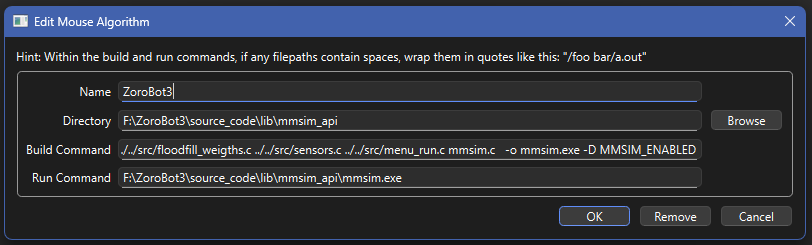
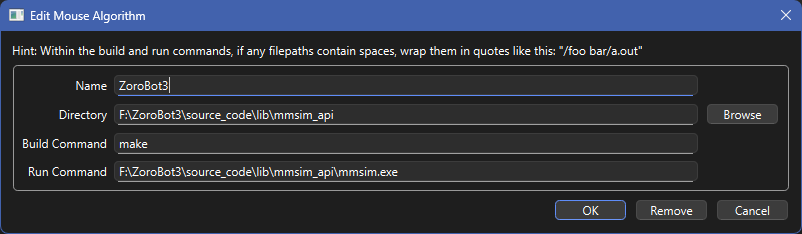
Añade Makefile para MMSim

Changed region(s): [[0.0, 0.0, 1.0, 1.0]]

diff --git a/source_code/lib/mmsim_api/readme.md b/source_code/lib/mmsim_api/readme.md
@@ -14,5 +14,5 @@ Esta es la configuración de esta API:
 
   - **Name**: ZoroBot3.
   - **Directory**: La ruta en la que tengas el API. Ej.:  `F:\ZoroBot3\source_code\lib\mmsim_api`.
-  - **Build command**: `gcc -I../../lib/mmsim_api -I../../include mmsim_api.c ../../src/control.c ../../src/floodfill.c ../../src/maze.c ../../src/move.c ../../src/floodfill_weigths.c ../../src/sensors.c ../../src/menu_run.c mmsim.c   -o mmsim.exe -D MMSIM_ENABLED`.
+  - **Build command**: Se usa el comando `make` para compilar usando el fichero Makefile. (Es necesario tener instalado el componente *make* en tu sistema operativo).
   - **Run Command**: La ruta en la que tengas el compilado del API. Ej.: `F:\ZoroBot3\source_code\lib\mmsim_api\mmsim.exe`.
